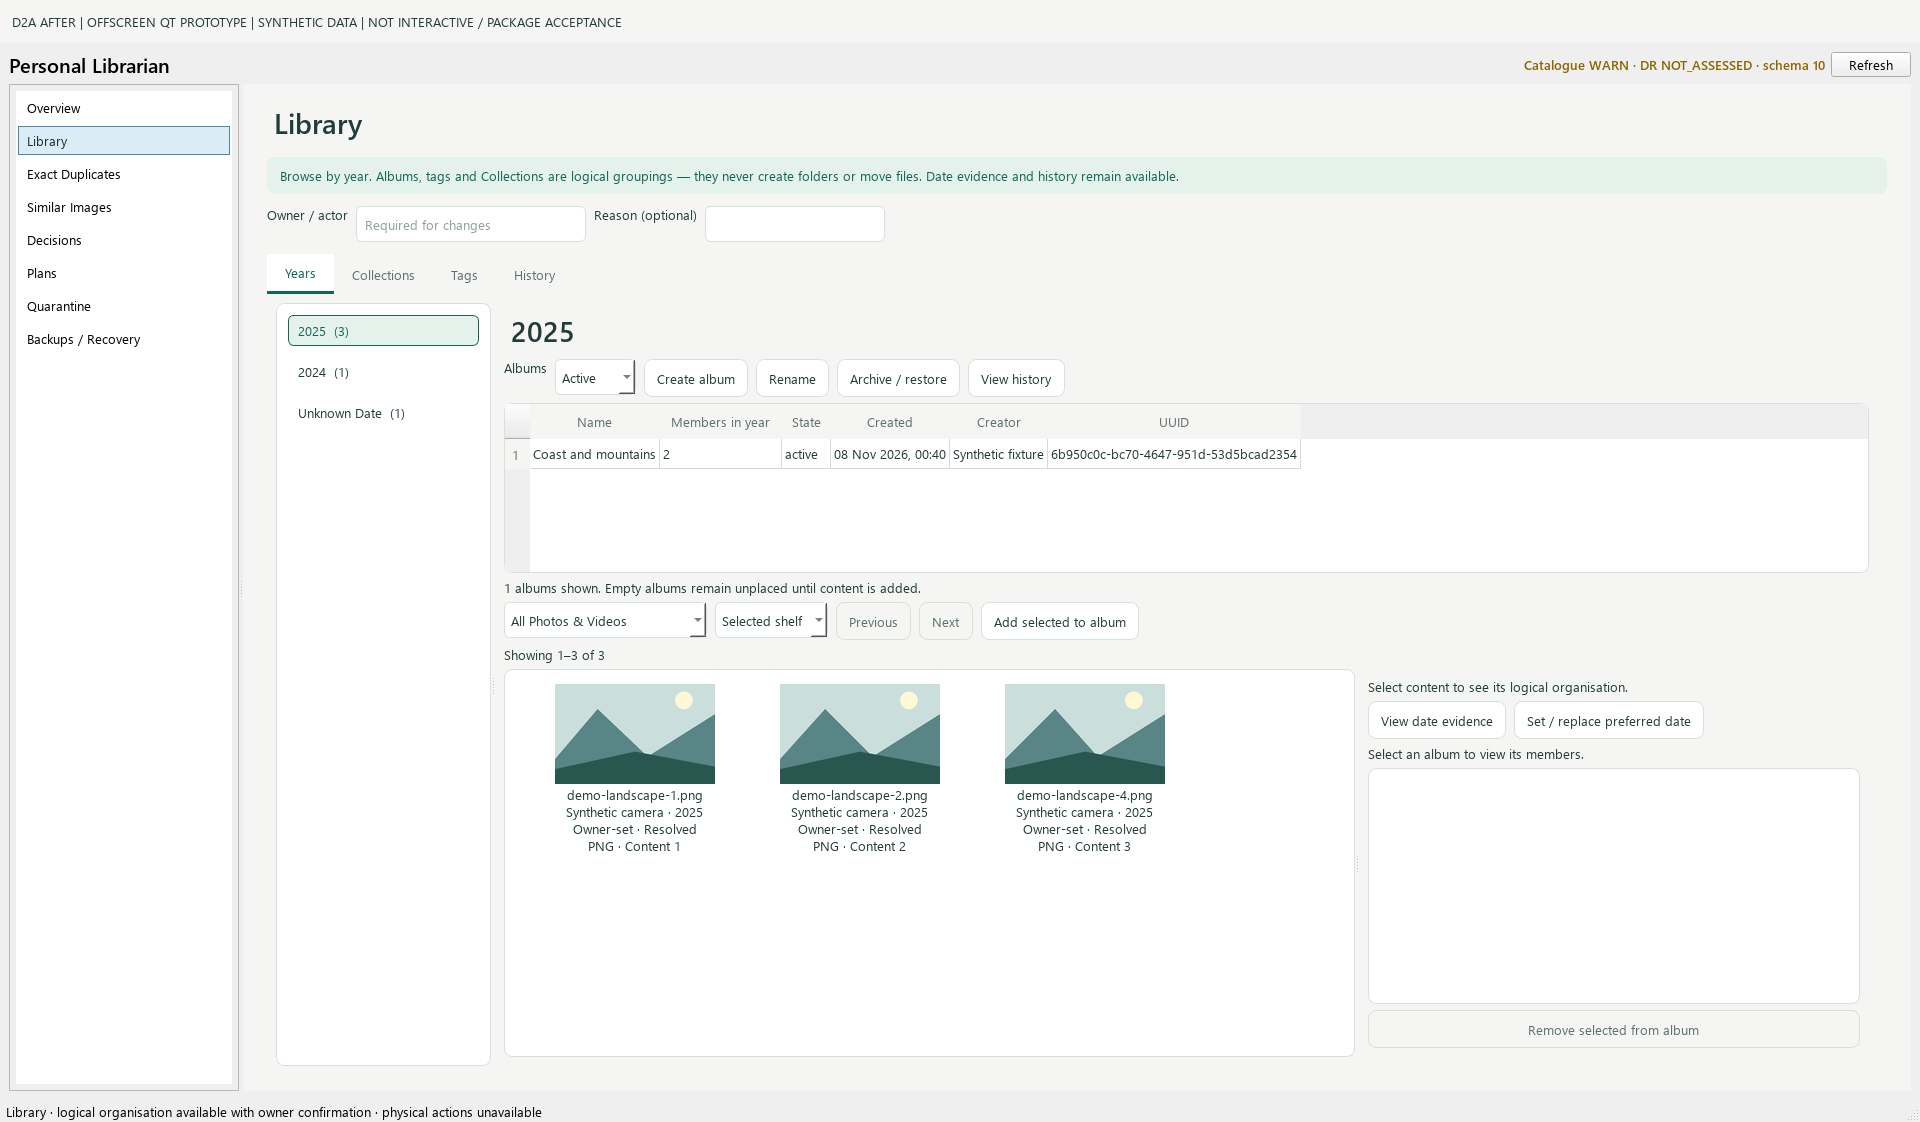
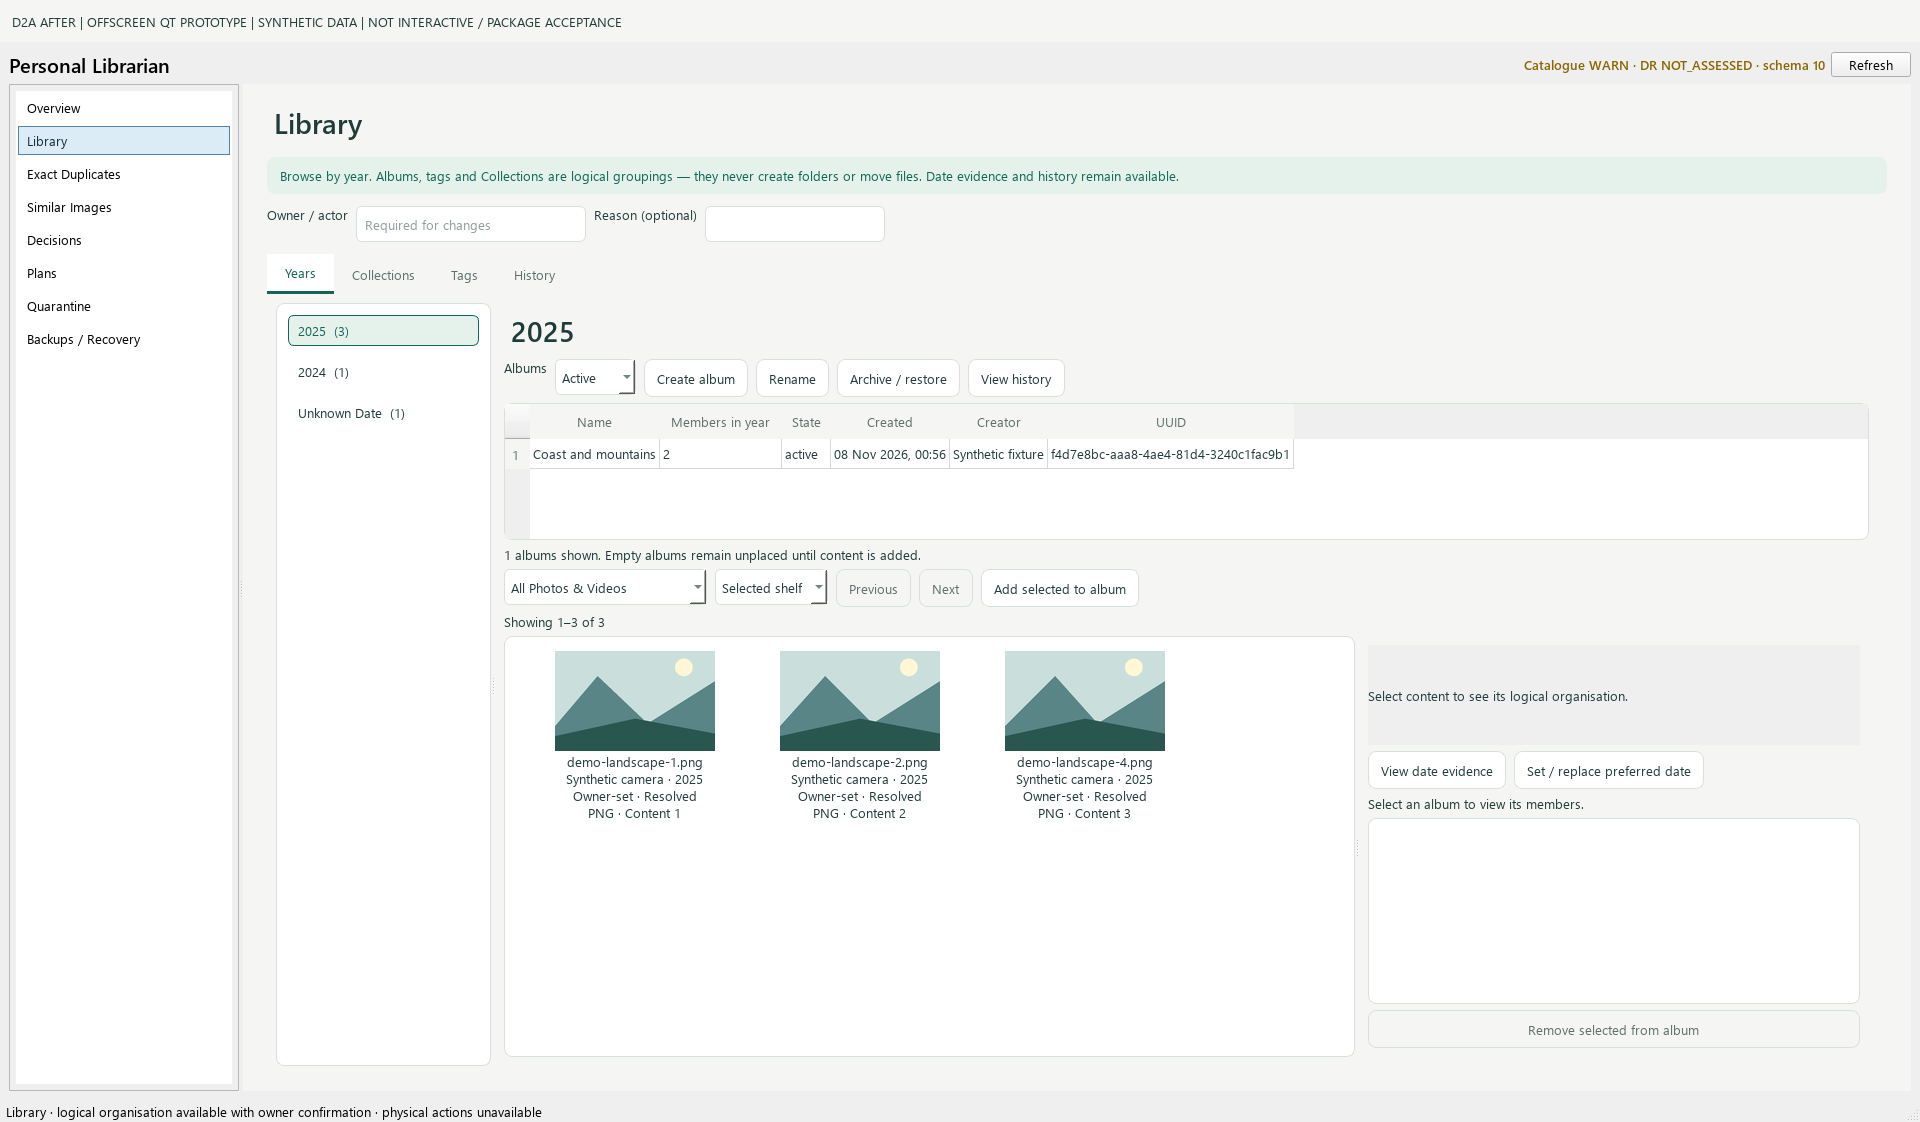
docs: refresh D2A evidence after selected-detail correction

Changed region(s): [[0.25, 0.4679, 0.625, 0.7487], [0.7188, 0.5927, 0.875, 0.7175], [0.5938, 0.3743, 0.625, 0.4055]]

diff --git a/docs/design/d2a/README.md b/docs/design/d2a/README.md
@@ -2,7 +2,9 @@
 
 **Technical and visual review required. No merge or release.** Related to [issue #23](https://github.com/dreamingfree09/personal-librarian/issues/23).
 
-Implementation source commit: `6cfc86dd8bf6e9e2f181460b640c391875f7ca9b`.
+Initial implementation: `6cfc86dd8bf6e9e2f181460b640c391875f7ca9b`.
+Selected-detail correction: `2fcfa2d7d26b1af79be3637955b22878cacab012`.
+Final captured source: `f09346e3f909f841303c2b2b2ce41c7d4e6e0e33`.
 Protected base: `ad26c9b3c2d8d33188b1e97b4bbb38c368100bef`, tree `a3cb664fbb32d2c2894fb0ad7ce4b33716ae08e9`.
 Approved D1 reference: [PR #22, c61f213](https://github.com/dreamingfree09/personal-librarian/pull/22), tree `fda9ff258d3d04453822fe7ca741c8d86687b79b`. Original D1 artwork is unchanged.
 
@@ -69,7 +71,7 @@ members accessible. This prototype makes no decision for D2B.
 [Local validation record](local-validation.json), [after capture manifest](after-capture-manifest.json), [before capture manifest](before-capture-manifest.json), [SHA-256 index](SHA256SUMS.json).
 
 - Final focused desktop run: **88 tests, zero failures/errors/skips, process and observer exit 0**.
-- Full local Windows attempt: **385 tests, 2 environment errors, 4 skips, child/observer exit 1**. Both errors occurred creating synthetic symlinks (`WinError 1314`). The host has Python 3.13.1 / Pillow 12.3.0; it is not the pinned hosted qualification environment. Evidence is retained; no failure converted to a skip or success and no host policy/dependency changed. The additional final event-loop test is covered by focused and hosted runs.
+- Full local Windows attempt: **386 tests, 2 environment errors, 4 skips, child/observer exit 1**. Both errors occurred creating synthetic symlinks (`WinError 1314`). The host has Python 3.13.1 / Pillow 12.3.0; it is not the pinned hosted qualification environment. Evidence is retained; no failure converted to a skip or success and no host policy/dependency changed. The original 385-test attempt is also retained. The corrected source was tested again because of the demonstrated clipping defect, not to obtain a green rerun.
 - Complete hosted Windows CI and both qualified Python 3.13.16/3.13.17 lifecycle checks must be read at the exact draft PR revision. Their actual process exits and results are recorded in the PR handover; local failure is not erased by hosted success.
 - Source compilation and CRLF-aware whitespace checks passed. Original worker/review class ASTs compare unchanged.
 - Final offscreen captures exited 0; synthetic catalogue SHA-256 was unchanged before/after navigation, rendering and close.
@@ -80,7 +82,7 @@ First capture failures and corrections remain in private evidence: an incorrect
 fixture API argument; offscreen font discovery rendering boxes; hidden-page sizing;
 and a new transient Overview callback that failed to deliver. Corrections were
 limited to the helper/presentation layer, with real-worker and real-shell tests
-added. No previous failed output was overwritten or presented as final evidence.
+added. A final visual check also demonstrated clipped long selected-item text; the existing label now sits in a scrollable container, and the focused test verifies its complete height and reachable scroll range. One subsequent fixture capture lacked previews because of a long private cache path on this host; it was retained but not published. The final capture uses a shorter disposable path and now asserts every expected preview is present. No previous failed output was overwritten or presented as final evidence.
 
 ## Remaining visual review points
 
